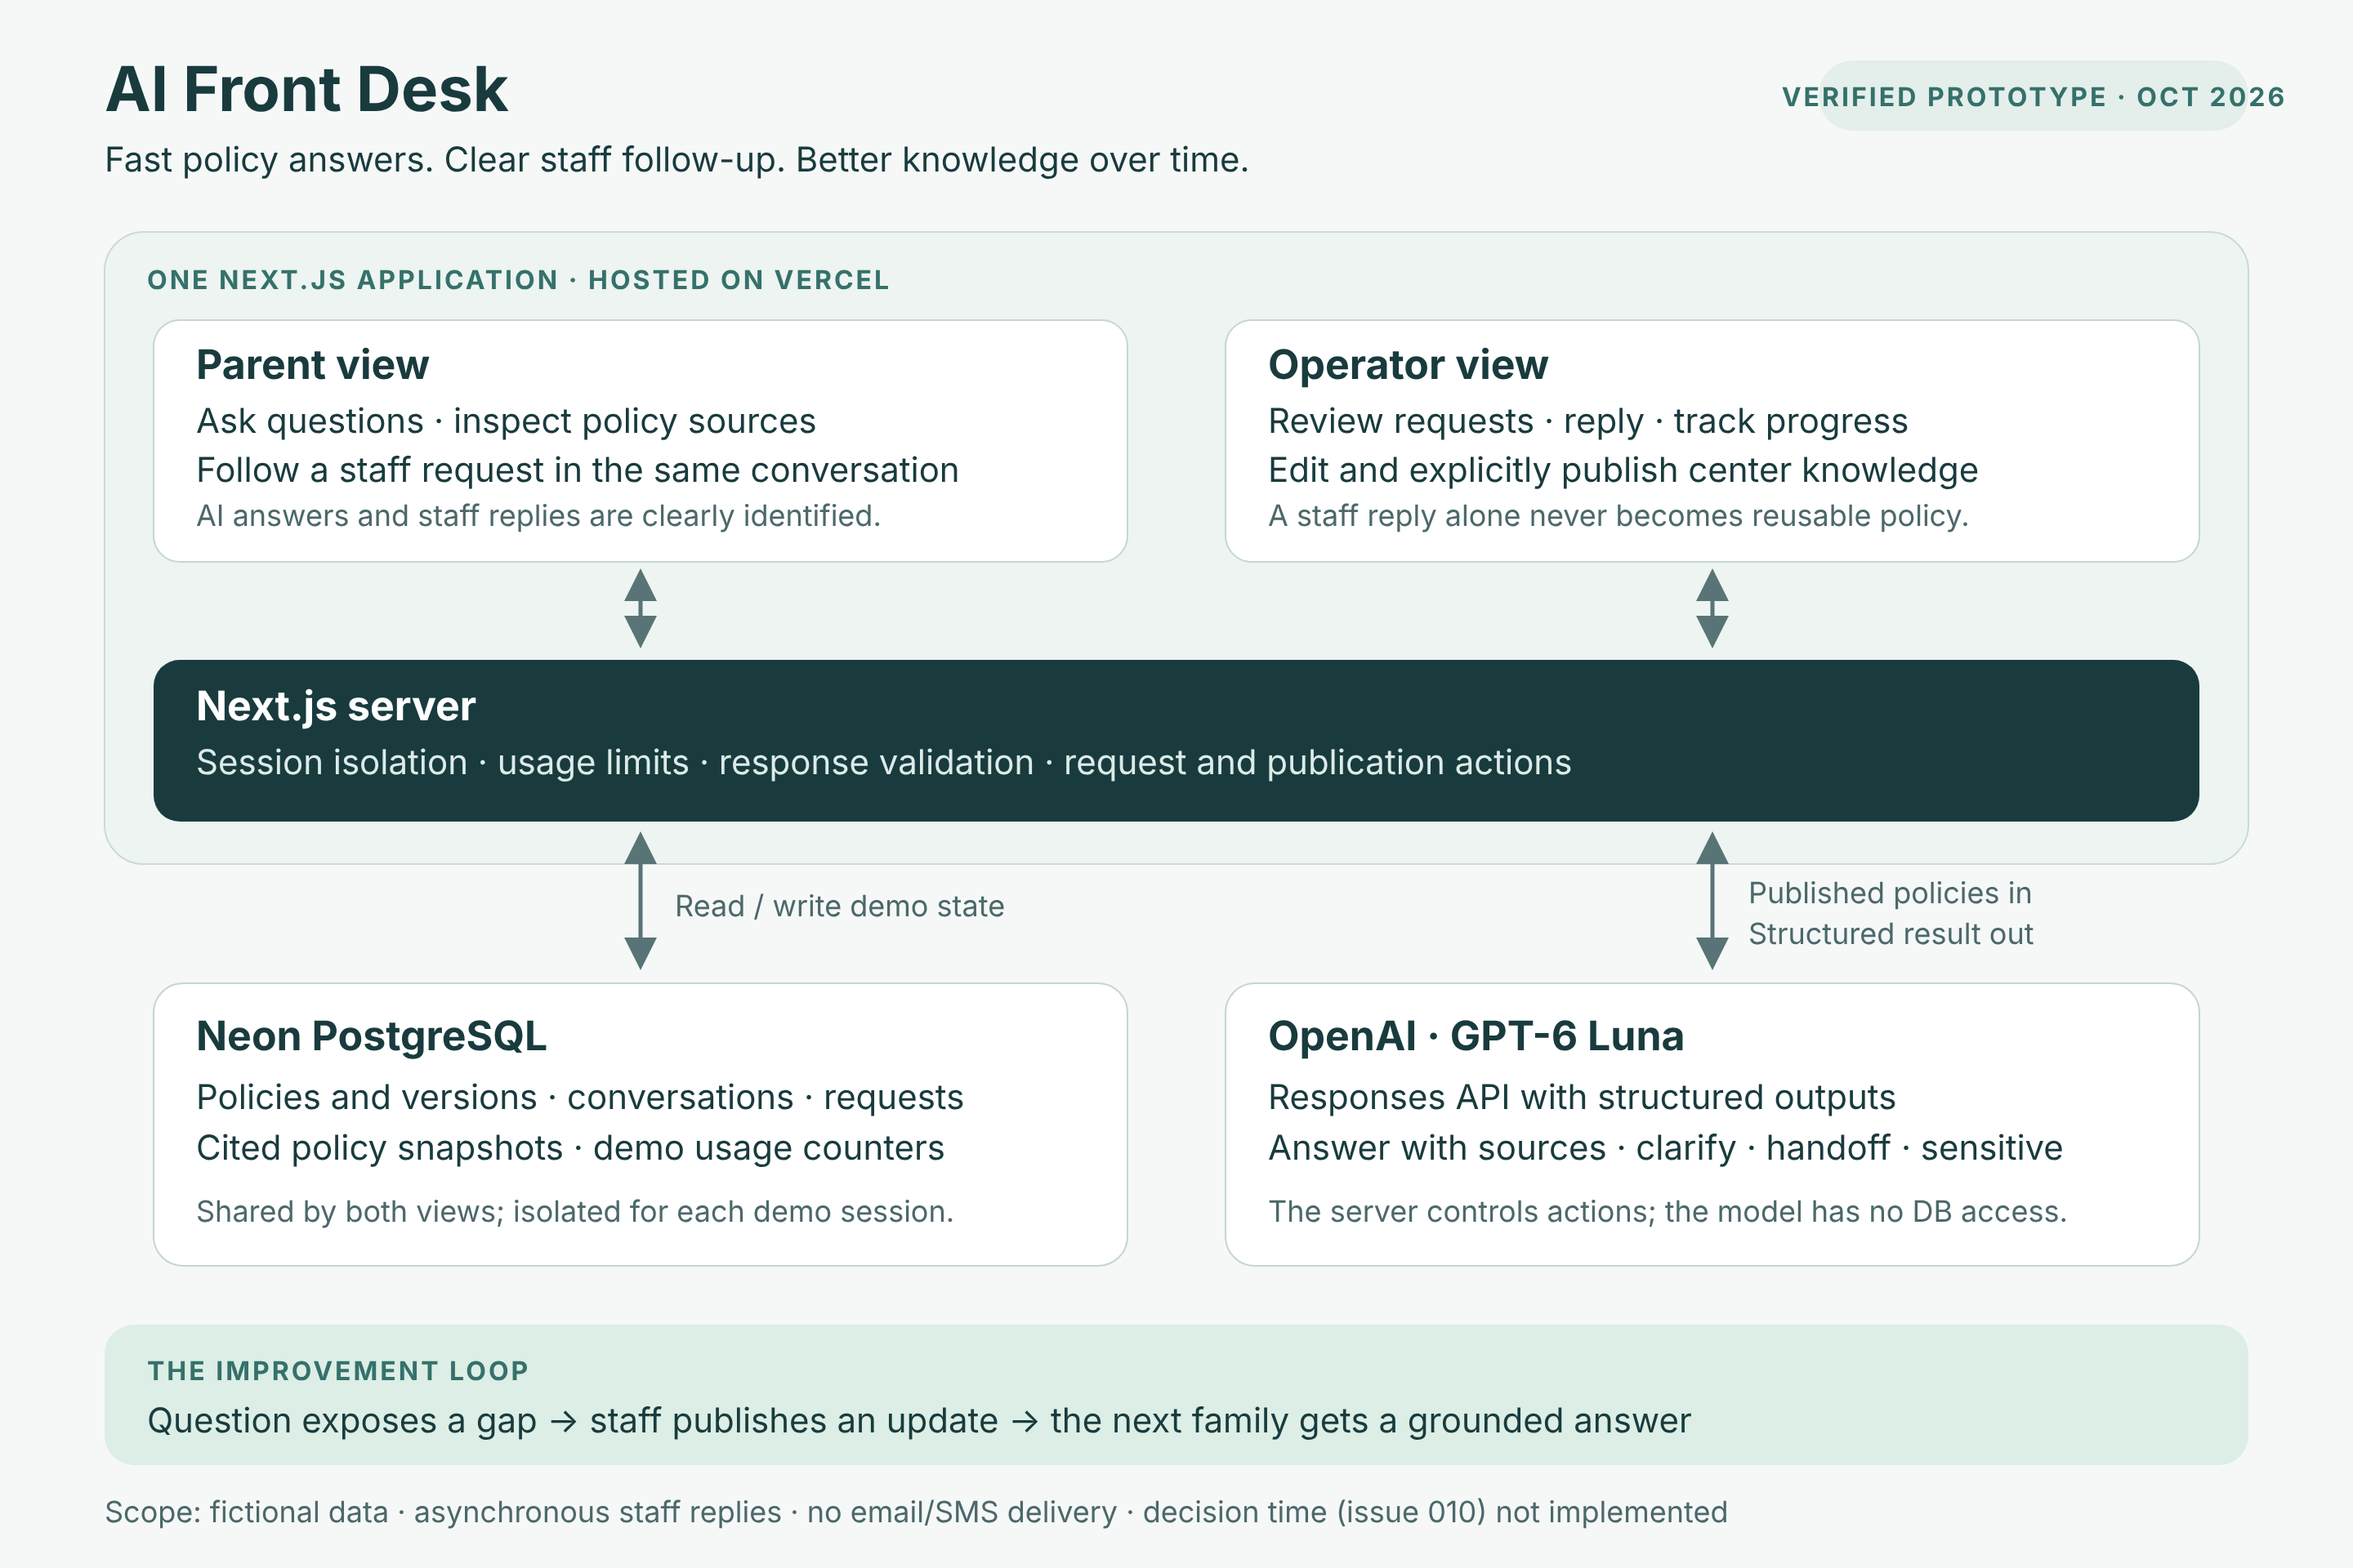
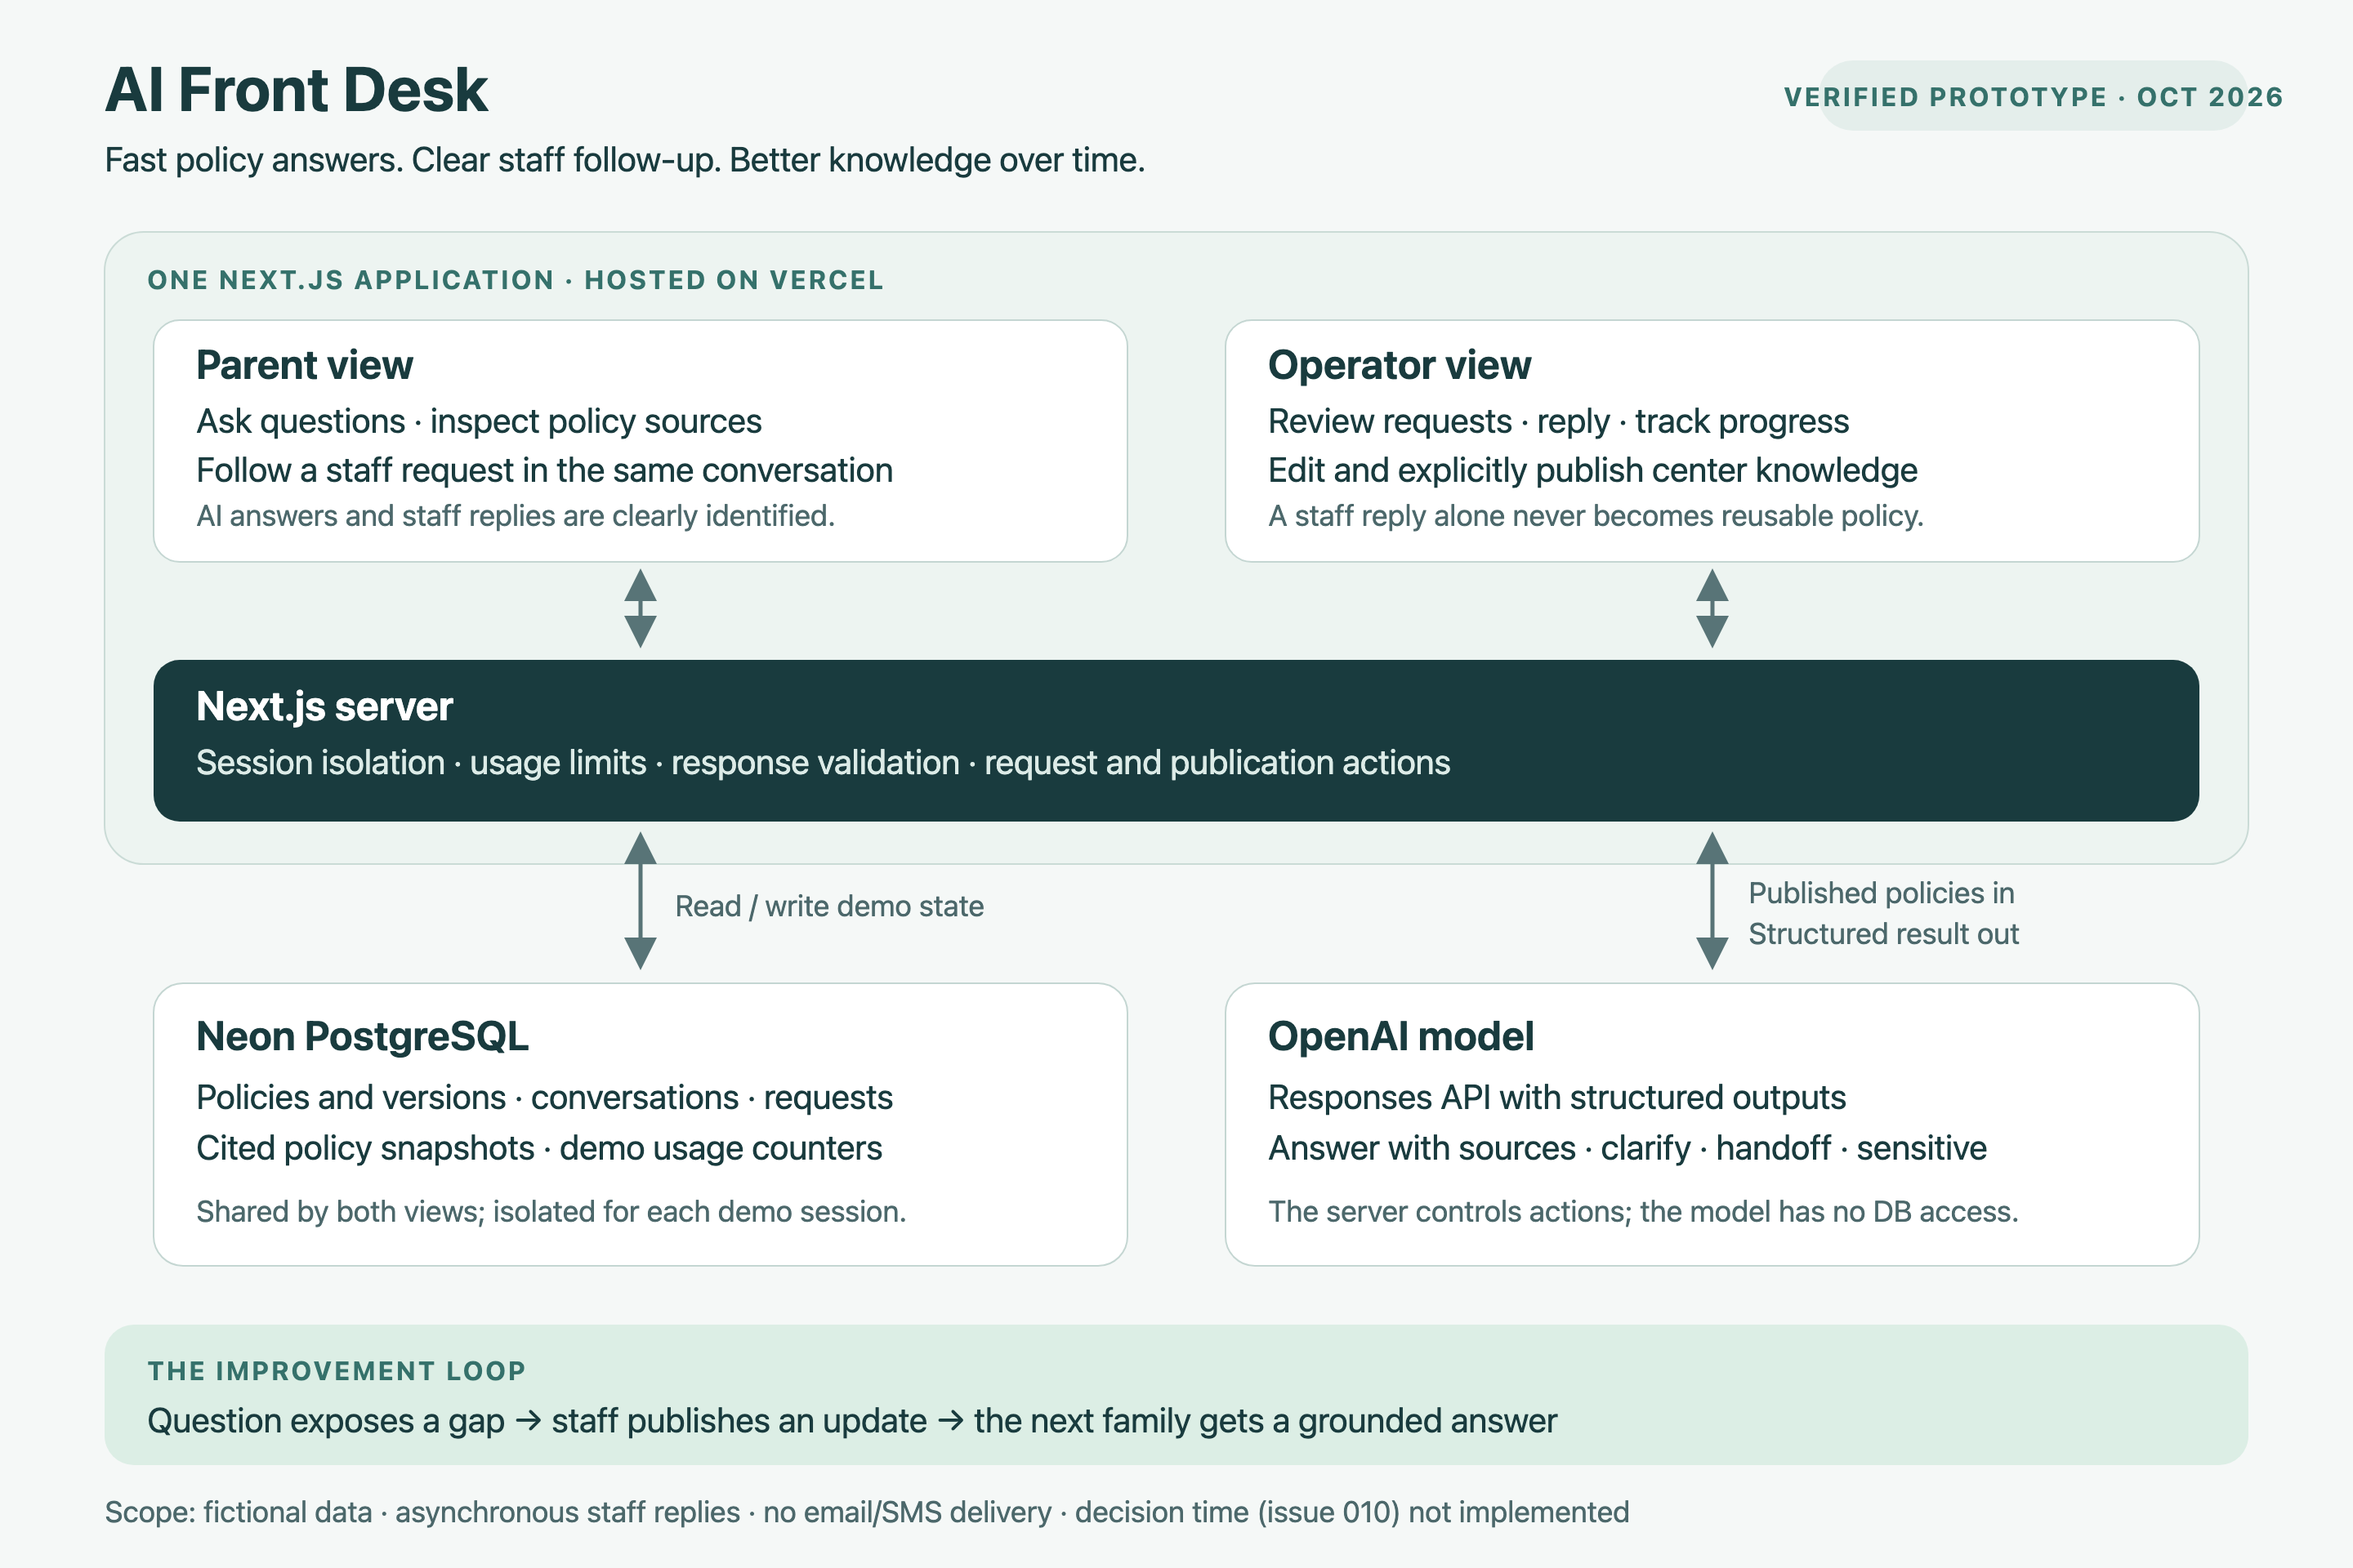
fix(015): Omit reasoning controls for GPT-4.1 models and make the model configurable in docs
GPT-4.1 (mini, nano, dated snapshots) rejects reasoning effort and
verbosity; the caller now drops both for those models so switching
OPENAI_MODEL alone yields a valid request. Diagrams and the submission
explanation name the configured model instead of one, and describe the
Inbox, Handbook, and Start over as shipped.

diff --git a/tests/model-configuration.test.ts b/tests/model-configuration.test.ts
@@ -1,0 +1,25 @@
+import { afterEach, expect, it, vi } from 'vitest';
+import { openAiCaller } from '@/lib/answer-service';
+
+afterEach(() => { vi.unstubAllEnvs(); vi.unstubAllGlobals(); });
+
+it.each(['gpt-4.1-mini', 'gpt-4.1-mini-2025-04-14', 'gpt-6-luna'])('sends compatible controls for %s', async (model) => {
+  vi.stubEnv('OPENAI_API_KEY', 'test-key');
+  vi.stubEnv('OPENAI_MODEL', model);
+  vi.stubEnv('OPENAI_REASONING_EFFORT', 'low');
+  vi.stubEnv('OPENAI_VERBOSITY', 'low');
+  const fetcher = vi.fn(async () => new Response(JSON.stringify({ output_text: '{"kind":"chat"}' })));
+  vi.stubGlobal('fetch', fetcher);
+  await openAiCaller({ system: 'Test', turns: [], question: 'Hello', signal: new AbortController().signal });
+  const options = (fetcher.mock.calls[0] as unknown as [string, RequestInit])[1];
+  const body = JSON.parse(options.body as string);
+  expect(body.text.format.type).toBe('json_schema');
+  expect(body.text.format.strict).toBe(true);
+  if (model.startsWith('gpt-4.1')) {
+    expect(body).not.toHaveProperty('reasoning');
+    expect(body.text).not.toHaveProperty('verbosity');
+  } else {
+    expect(body.reasoning).toEqual({ effort: 'low' });
+    expect(body.text.verbosity).toBe('low');
+  }
+});

diff --git a/src/lib/answer-service.ts b/src/lib/answer-service.ts
@@ -70,8 +70,11 @@ export const openAiCaller: ModelCaller = async ({ system, turns, question, signa
   // Issue 015: the answer is a short classification over a few pages of policy, so
   // the model runs at low reasoning effort and low verbosity by default. Both are
   // configuration; an empty value sends nothing and leaves the model's default.
-  const effort = process.env.OPENAI_REASONING_EFFORT ?? "low";
-  const verbosity = process.env.OPENAI_VERBOSITY ?? "low";
+  // GPT-4.1 (including mini/nano and dated snapshots) does not accept these
+  // reasoning-model controls. Switching model alone must still produce a valid request.
+  const isGpt41 = /^gpt-4\.1(?:-|$)/.test(model);
+  const effort = isGpt41 ? "" : process.env.OPENAI_REASONING_EFFORT ?? "low";
+  const verbosity = isGpt41 ? "" : process.env.OPENAI_VERBOSITY ?? "low";
   const res = await fetch("https://api.openai.com/v1/responses", {
     method: "POST",
     headers: { authorization: `Bearer ${apiKey}`, "content-type": "application/json" },

diff --git a/docs/submission-explanation.md b/docs/submission-explanation.md
@@ -1,14 +1,14 @@
 # AI Front Desk
 
-*Verified against the hosted prototype on October 7, 2026: https://bw-frontdesk.vercel.app*
+*Core flow verified on the hosted prototype October 7, 2026: https://bw-frontdesk.vercel.app. Latest UI refinements and model compatibility changes are locally verified and await deployment.*
 
 Parents need quick, trustworthy answers. Staff need fewer repeated questions. This prototype is an AI front desk for enrolled families at a fictional childcare center, covering everyday questions about closures, illness rules, meals, tuition, and tours.
 
 The front desk answers only from staff-published policies and attaches the exact text it relied on; that evidence is a snapshot, so an old answer still shows what it cited even after the policy changes. When the policies do not settle a question, or a request needs a staff decision (a same-day lunch, a pickup exception), the assistant says what the policy covers and offers Ask staff. A request card in the conversation separates the known policy from what still needs staff, and nothing in the UI implies a reservation, an approval, or a reply deadline. Sensitive matters (an incident, a custody change, a billing dispute, a staff complaint) are never answered from policy: the assistant acknowledges briefly and offers Ask staff (or opens the request directly when the parent asks for a person), and the request is flagged in the inbox.
 
-Staff reply in the same conversation and track progress (reviewing, needs your reply, closed, reopen). A reply alone never changes future answers: the request shows "no knowledge update yet" until an operator opens a draft, reviews it, and explicitly publishes. That is the central loop, verified end to end on the hosted app: "Are you open on Veterans Day?" is a handoff, staff reply, the same question is still a handoff, staff publish the updated closure list, and the next ask is a sourced answer. Operators can also create and edit knowledge directly; drafts persist but stay out of the policy browser and the AI until published.
+Staff reply in the same conversation and track progress (reviewing, needs your reply, closed, reopen). A reply alone never changes future answers: the request shows "No Handbook update yet" until an operator opens a draft, reviews it, and explicitly publishes. That is the central loop, verified end to end on the hosted app: "Are you open on Veterans Day?" is a handoff, staff reply, the same question is still a handoff, staff publish the updated closure list, and the next ask is a sourced answer. Operators use one Inbox for questions and staff requests, and a categorized Handbook for policy edits; drafts persist but stay out of the policy browser and the AI until published.
 
-Architecture: one Next.js app on Vercel, Neon PostgreSQL for policies, drafts, conversations, requests, evidence snapshots and usage counters, and OpenAI GPT-6 Luna through the Responses API with a strict JSON schema; the server validates every result and source id before anything is shown. Each browser gets an isolated, resettable demo session; the Parent/Operator switch is a reviewer convenience. AI usage is capped at 50 per session and 500 per day on the server; policy browsing and staff messaging keep working when the cap is hit, and a failed model call keeps the question and offers retry, policies, or staff.
+Architecture: one Next.js app on Vercel, Neon PostgreSQL for policies, drafts, conversations, requests, evidence snapshots and usage counters, and a configurable OpenAI model through the Responses API with a strict JSON schema; the server validates every result and source id before anything is shown. Each browser gets an isolated demo session. Start over opens a new chat while retaining staff history, earlier requests, and usage limits; the Parent/Operator switch is a reviewer convenience. AI usage is capped at 50 per session and 500 per day on the server; policy browsing and staff messaging keep working when the cap is hit, and a failed model call keeps the question and offers retry, policies, or staff.
 
 Deferred on purpose: live staff presence, email/SMS delivery, document ingestion, real authentication and school-wide tenancy (see [production notes](production-notes.md)), and the optional parent decision time (issue 010, not implemented). Known limit: grounding quality is checked on a small live sample per behavior class, not measured as a success rate.
 
